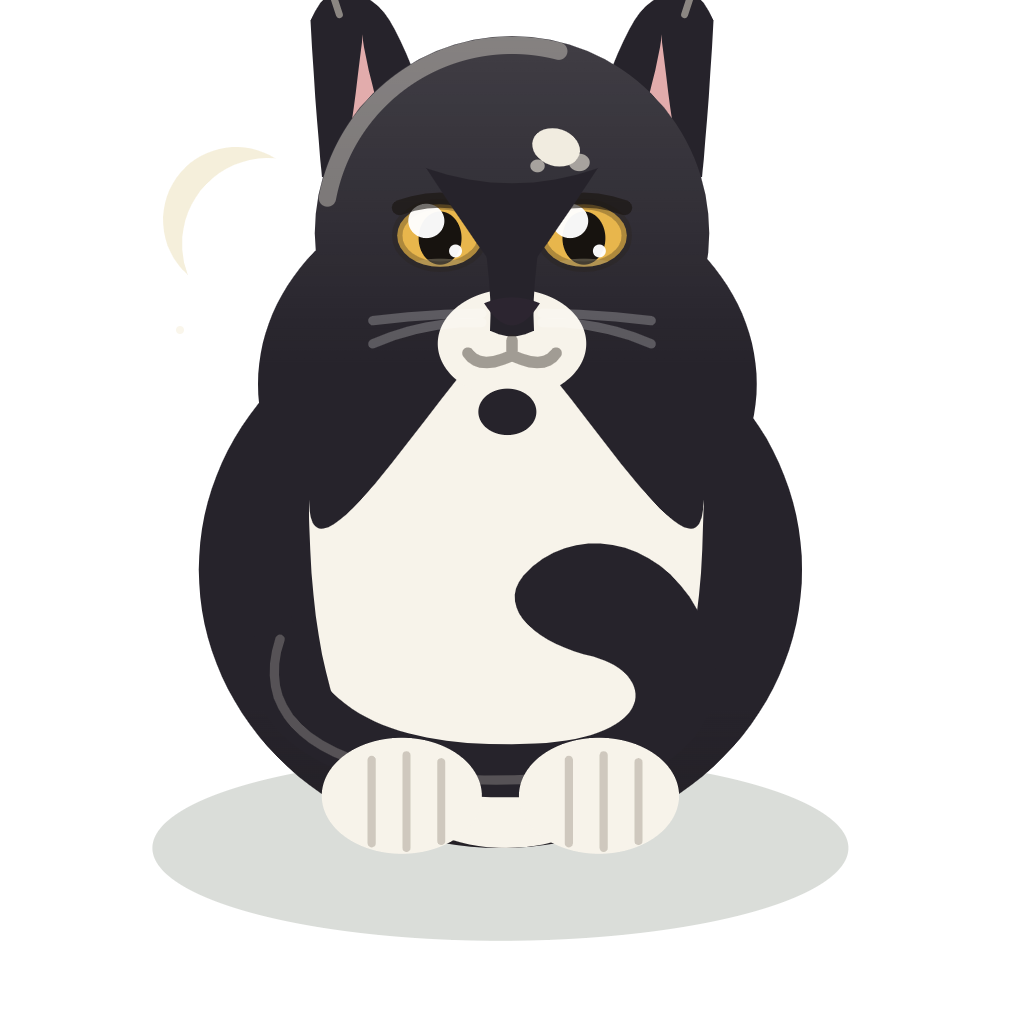
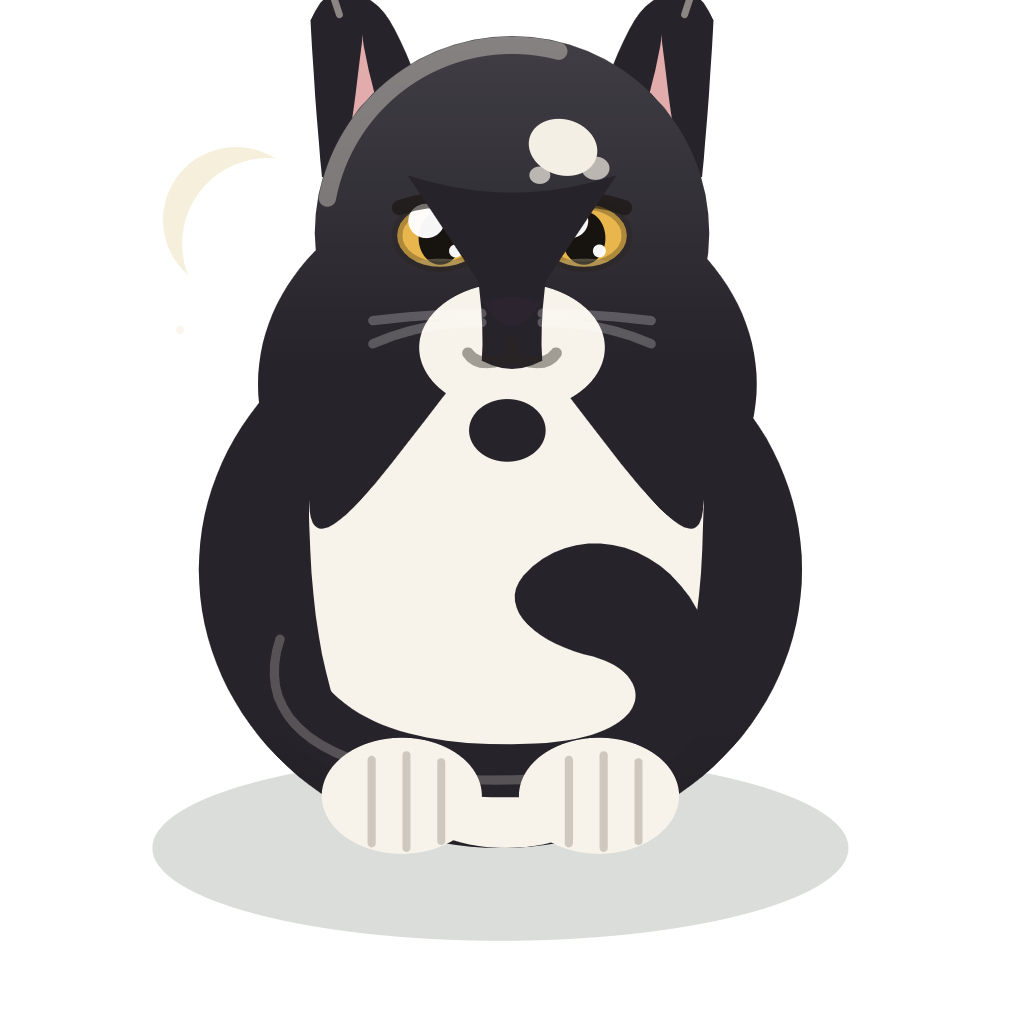
Midknight markings: draw them bold enough to read
'Looks the same' — the markings were there but too timid. Bumped in both
places: bigger white muzzle so the wedge splits it into two obvious lobes,
bolder freckle patch (off his left), bolder chin dot, sharper mask point.
Now visible down to ~90px; still vanish below ~50px like all face detail.

Changed region(s): [[0.4062, 0.2812, 0.5938, 0.4688], [0.5, 0.0938, 0.5938, 0.25], [0.4062, 0.1875, 0.4688, 0.25]]

diff --git a/index.html b/index.html
@@ -6981,33 +6981,33 @@ function drawEye(g, ex, ey, mode, iris, wide, kit) {
 function drawMidknightMarks(g, P, coat, kit) {
   const R = P.hr, hx = P.hx, hy = P.hy, k = kit ? 0.86 : 1;
   g.fillStyle = coat.base;
-  // mask point — the black dips to a soft point between the brows (the "concerned")
+  // mask point — the black spikes down between the brows into the white
   g.beginPath();
-  g.moveTo(hx - R * 0.42, hy - R * 0.32);
-  g.quadraticCurveTo(hx, hy - R * 0.18, hx + R * 0.42, hy - R * 0.32);
-  g.quadraticCurveTo(hx + R * 0.15, hy + R * 0.06, hx, hy + R * 0.20);
-  g.quadraticCurveTo(hx - R * 0.15, hy + R * 0.06, hx - R * 0.42, hy - R * 0.32);
+  g.moveTo(hx - R * 0.50, hy - R * 0.30);
+  g.quadraticCurveTo(hx, hy - R * 0.14, hx + R * 0.50, hy - R * 0.30);
+  g.quadraticCurveTo(hx + R * 0.17, hy + R * 0.16, hx, hy + R * 0.34);
+  g.quadraticCurveTo(hx - R * 0.17, hy + R * 0.16, hx - R * 0.50, hy - R * 0.30);
   g.closePath(); g.fill();
-  // nose-bridge wedge — runs from the mask point over the muzzle to the nose,
-  // slim waist so the white reads as two distinct lobes
+  // nose-bridge wedge — a bold black stripe splitting the muzzle into two lobes,
+  // joined at the chin
   g.beginPath();
-  g.moveTo(hx - R * 0.15, hy + R * 0.06);
-  g.quadraticCurveTo(hx, hy - R * 0.02, hx + R * 0.15, hy + R * 0.06);
-  g.quadraticCurveTo(hx + R * 0.085, hy + R * 0.30, hx + R * 0.10, hy + R * 0.46);
-  g.quadraticCurveTo(hx, hy + R * 0.52, hx - R * 0.10, hy + R * 0.46);
-  g.quadraticCurveTo(hx - R * 0.085, hy + R * 0.30, hx - R * 0.15, hy + R * 0.06);
+  g.moveTo(hx - R * 0.19, hy + R * 0.06);
+  g.quadraticCurveTo(hx, hy - R * 0.04, hx + R * 0.19, hy + R * 0.06);
+  g.quadraticCurveTo(hx + R * 0.13, hy + R * 0.34, hx + R * 0.15, hy + R * 0.56);
+  g.quadraticCurveTo(hx, hy + R * 0.64, hx - R * 0.15, hy + R * 0.56);
+  g.quadraticCurveTo(hx - R * 0.13, hy + R * 0.34, hx - R * 0.19, hy + R * 0.06);
   g.closePath(); g.fill();
-  // forehead freckle — the single most identifying mark: white scatter OFF to his
-  // left, never centred (midknight-bible.html §02)
-  g.fillStyle = coatLum(coat.base) < 0.4 ? "#f2ede1" : "#3a332c";
-  g.beginPath(); g.ellipse(hx + R * 0.20, hy - R * 0.53, R * 0.11, R * 0.085, 0.32, 0, 7); g.fill();
-  g.globalAlpha = 0.65;
-  g.beginPath(); g.ellipse(hx + R * 0.32, hy - R * 0.44, R * 0.045, R * 0.038, 0, 0, 7); g.fill();
-  g.beginPath(); g.ellipse(hx + R * 0.11, hy - R * 0.43, R * 0.03, R * 0.028, 0, 0, 7); g.fill();
+  // forehead freckle — the single most identifying mark: a bold white patch OFF
+  // to his left, never centred (midknight-bible.html §02)
+  g.fillStyle = coatLum(coat.base) < 0.4 ? "#f4efe4" : "#3a332c";
+  g.beginPath(); g.ellipse(hx + R * 0.24, hy - R * 0.52, R * 0.16, R * 0.125, 0.3, 0, 7); g.fill();
+  g.globalAlpha = 0.7;
+  g.beginPath(); g.ellipse(hx + R * 0.40, hy - R * 0.40, R * 0.06, R * 0.05, 0, 0, 7); g.fill();
+  g.beginPath(); g.ellipse(hx + R * 0.13, hy - R * 0.38, R * 0.045, R * 0.04, 0, 0, 7); g.fill();
   g.globalAlpha = 1;
-  // chin dot — the "goatee", a round black patch on the white chin under the mouth
+  // chin dot — the "goatee", a bold round black patch on the white chin under the mouth
   g.fillStyle = coat.base;
-  g.beginPath(); g.ellipse(hx - R * 0.03, hy + R * 0.78, R * 0.11, R * 0.09, 0, 0, 7); g.fill();
+  g.beginPath(); g.ellipse(hx - R * 0.03, hy + R * 0.86, R * 0.16, R * 0.13, 0, 0, 7); g.fill();
 }
 function drawTail(g, P, coat, mode, wag) {
   const pts = coat.pattern === "points" || coat.pattern === "lynxpoint" || coat.pattern === "van";
@@ -7343,9 +7343,9 @@ function drawCat(g, c, isPhoto) {
       g.beginPath(); g.ellipse(P.bw * 0.62, -2.5, 4.2, 4, 0, 0, 7); g.fill();
     }
     if (coat.white.includes("muzzle")) {
-      const mw = coat.snowMask ? 5.6 : coat.mascot ? 5.6 : 4.4;   // fuller for Labubu; fuller for Midknight so the wedge reads as two lobes
-      const mh = coat.snowMask ? 4.2 : coat.mascot ? 4.1 : 3.4;
-      g.beginPath(); g.ellipse(P.hx + (coat.mascot ? 0.3 : 1), P.hy + P.hr * 0.5, mw, mh, 0, 0, 7); g.fill();
+      const mw = coat.snowMask ? 5.6 : coat.mascot ? 6.6 : 4.4;   // fuller for Labubu; big for Midknight so the wedge splits it into two lobes
+      const mh = coat.snowMask ? 4.2 : coat.mascot ? 4.8 : 3.4;
+      g.beginPath(); g.ellipse(P.hx + (coat.mascot ? 0.3 : 1), P.hy + P.hr * (coat.mascot ? 0.52 : 0.5), mw, mh, 0, 0, 7); g.fill();
     }
     if (coat.white.includes("blaze"))  {
       g.beginPath();
